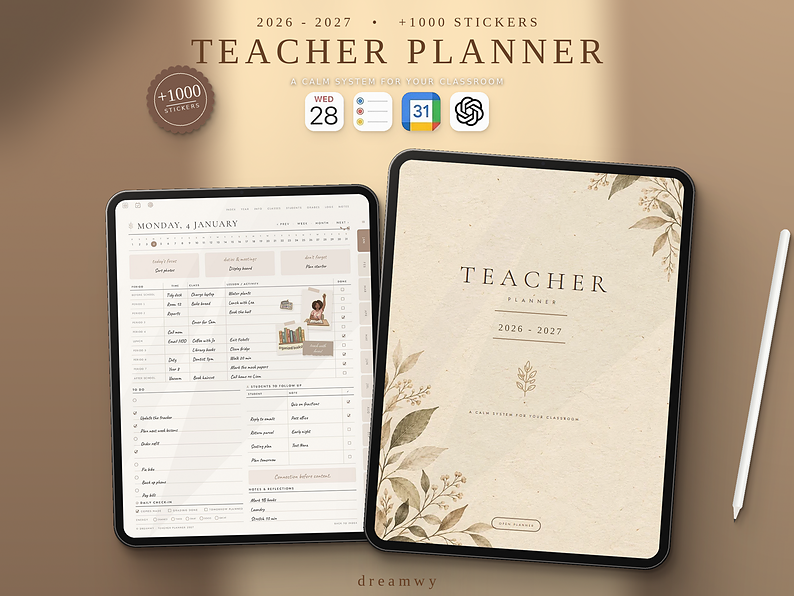
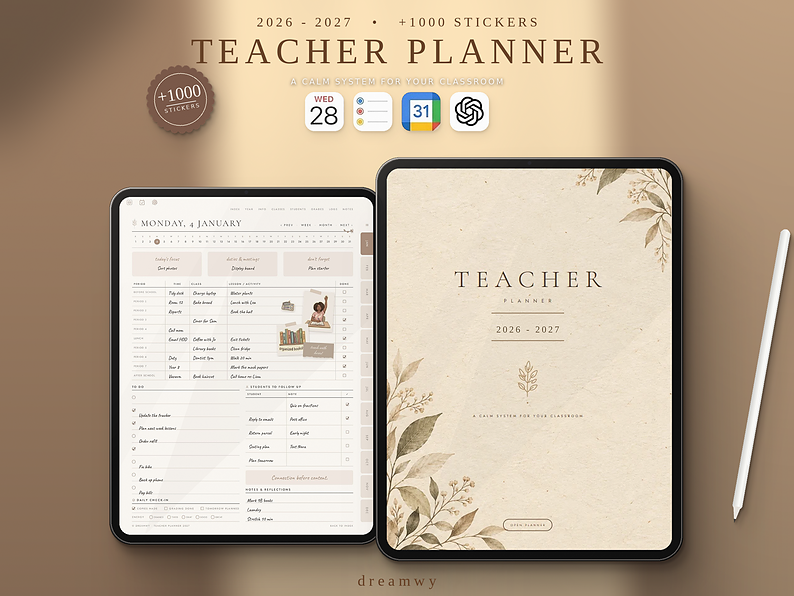
Teacher mockup: iPads straight (no tilt)
Claude-Session: https://claude.ai/code/session_015ZGVvYxuW9E1f2kNKHXQzt

diff --git a/mockup/make_teacher_mockup.py b/mockup/make_teacher_mockup.py
@@ -256,8 +256,8 @@ def place(dev, cx, cy):
     canvas.alpha_composite(dev, (x, y))
 
 
-place(tablet(daily, 1080, 1.5), 745, 1105)       # daily page on the left, behind (the smaller iPad)
-place(tablet(cover, 1220, -4), 1600, 1085)     # cover on the right, in front and bigger: it overlaps the right edge of the page iPad
+place(tablet(daily, 1080, 0), 745, 1105)       # daily page on the left, behind (the smaller iPad)
+place(tablet(cover, 1220, 0), 1600, 1085)     # cover on the right, in front and bigger: it overlaps the right edge of the page iPad
 
 # pencil lying on the cover
 pen = Image.new("RGBA", (900, 30), (0, 0, 0, 0))
